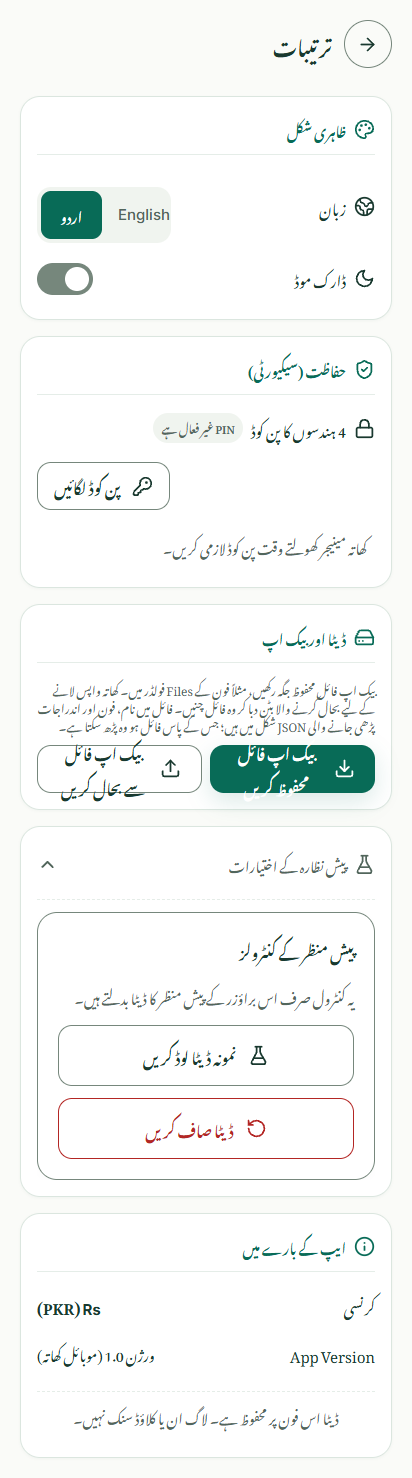
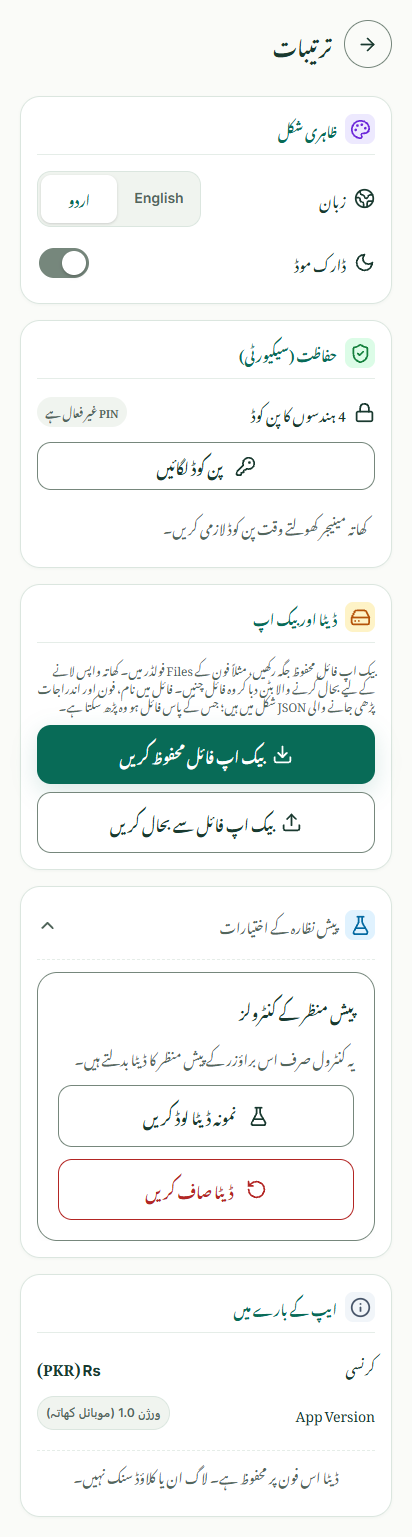
feat(ui): elevate Settings, segmented controls, toggle switch, and card actions

diff --git a/src/styles.css b/src/styles.css
@@ -88,15 +88,22 @@ bdi[dir=ltr] { font-family: var(--type-font-english); }
 .settings-content { display: grid; gap: var(--space-s4); }
 .settings-card { padding: var(--space-s5); background: var(--color-surface); border: var(--layout-border-width) solid var(--color-border); border-radius: var(--radius-card); box-shadow: var(--shadow-card); }
 .settings-card h2 { font-size: var(--type-size-body); }
-.language-switch { display: flex; padding: var(--space-s1); gap: var(--space-s1); margin-top: var(--space-s4); background: var(--color-surface-muted); border-radius: var(--radius-control); }
-.language-switch button { flex: 1; min-width: 0; min-height: var(--layout-touch-target); border-radius: var(--radius-small); background: transparent; color: var(--color-muted); border: 0; font-weight: var(--type-weight-medium); padding: var(--space-s1) var(--space-s3); }
-.language-switch button[aria-pressed=true] { background: var(--color-primary); color: var(--color-on-primary); }
+.language-switch { display: inline-flex; align-items: center; padding: 3px; gap: 4px; margin: 0; background: var(--color-surface-muted); border: 1px solid var(--color-card-border, #dbe6df); border-radius: var(--radius-control); box-sizing: border-box; }
+[data-theme=dark] .language-switch { border-color: #293f34; }
+.language-switch button { min-height: var(--layout-touch-target); min-width: 76px; border-radius: var(--radius-small); background: transparent; color: var(--color-muted); border: 0; font-weight: var(--type-weight-semibold); font-size: var(--type-size-sm); padding: 0 var(--space-s3); cursor: pointer; display: inline-flex; align-items: center; justify-content: center; transition: all var(--motion-fast); }
+.language-switch button[aria-pressed=true] { background: var(--color-surface); color: var(--color-primary); box-shadow: 0 1px 3px rgba(0, 0, 0, 0.1), 0 1px 2px rgba(0, 0, 0, 0.06); }
+[data-theme=dark] .language-switch button[aria-pressed=true] { background: #254c3b; color: #9bd6b6; box-shadow: 0 1px 3px rgba(0, 0, 0, 0.3); }
 .urdu-label { font-family: var(--type-font-urdu); }
 .setting-row { display: flex; align-items: center; justify-content: space-between; gap: var(--space-s4); }
 .currency-row { border-top: var(--layout-border-width) solid var(--color-border); margin-top: var(--space-s5); padding-top: var(--space-s5); }
-.toggle { width: var(--layout-control-height); min-width: var(--layout-control-height); height: var(--space-s8); background: var(--color-border); border-radius: var(--radius-pill); border: 0; padding: var(--space-s1); display: flex; align-items: center; justify-content: start; }
-.toggle span { width: var(--space-s6); height: var(--space-s6); border-radius: var(--radius-pill); background: var(--color-surface); }
-.toggle[aria-checked=true] { background: var(--color-primary); justify-content: end; }
+.toggle { position: relative; width: 54px; min-width: 54px; height: var(--layout-touch-target); min-height: var(--layout-touch-target); background: transparent; border: 0; padding: 0; cursor: pointer; display: inline-flex; align-items: center; justify-content: center; appearance: none; -webkit-appearance: none; box-sizing: border-box; }
+.toggle::before { content: ''; position: absolute; top: 50%; left: 2px; right: 2px; height: 30px; transform: translateY(-50%); border-radius: var(--radius-pill); background: var(--color-border); transition: background-color var(--motion-normal) ease; z-index: 1; }
+.toggle[aria-checked=true]::before { background: var(--color-primary); }
+.toggle span { position: absolute; top: 50%; left: 5px; width: 24px; height: 24px; border-radius: var(--radius-pill); background: var(--color-surface); transform: translateY(-50%); transition: transform var(--motion-normal) cubic-bezier(0.16, 1, 0.3, 1), background-color var(--motion-fast); box-shadow: 0 2px 4px rgba(0, 0, 0, 0.22), 0 1px 2px rgba(0, 0, 0, 0.1); z-index: 2; }
+.toggle[aria-checked=true] span { transform: translateY(-50%) translateX(20px); }
+[dir=rtl] .toggle span { left: auto; right: 5px; }
+[dir=rtl] .toggle[aria-checked=true] span { transform: translateY(-50%) translateX(-20px); }
+[data-theme=dark] .toggle span { background: #ffffff; }
 .muted-copy { color: var(--color-muted); font-size: var(--type-size-sm); padding: var(--space-s2); }
 .foundation-state { margin-block: auto; gap: var(--space-s5); padding-block: var(--space-s12); }
 .foundation-state h2 { font-size: var(--type-size-heading); }.foundation-state p { color: var(--color-muted); }
@@ -185,10 +192,7 @@ h1:lang(ur), h2:lang(ur), .preview-eyebrow:lang(ur), .stage-badge:lang(ur) { let
 .form-field input, .form-field textarea, .search-field input { font-size: var(--type-size-input); }
 .form-field input[dir=ltr] { font-family: var(--type-font-english); line-height: var(--type-line-body); text-align: start; }
 .form-field input, .form-field textarea { scroll-margin-block: var(--space-s6); }
-.toggle { position: relative; isolation: isolate; height: var(--layout-touch-target); background: transparent; }
-.toggle::before { content: ''; position: absolute; inset-inline: 0; top: 50%; height: var(--space-s8); transform: translateY(-50%); border-radius: var(--radius-pill); background: var(--color-border); z-index: -1; }
-.toggle[aria-checked=true] { background: transparent; }
-.toggle[aria-checked=true]::before { background: var(--color-primary); }
+
 .customer-card { position: relative; background: var(--color-surface); border: 1px solid var(--color-card-border, #dbe6df); box-shadow: 0 1px 3px rgba(21, 52, 38, 0.04); border-radius: var(--radius-card); display: flex; align-items: center; justify-content: space-between; padding: var(--space-s3) var(--space-s3); width: 100%; max-width: 100%; min-width: 0; box-sizing: border-box; overflow: hidden; transition: border-color var(--motion-fast), box-shadow var(--motion-fast); content-visibility: auto; contain-intrinsic-block-size: auto var(--layout-customer-row-estimate); }
 [data-theme=dark] .customer-card { border-color: #293f34; box-shadow: none; }
 @media (hover: hover) and (pointer: fine) {
@@ -220,6 +224,7 @@ h1:lang(ur), h2:lang(ur), .preview-eyebrow:lang(ur), .stage-badge:lang(ur) { let
 .customer-name { font-size: var(--type-size-body); font-weight: var(--type-weight-semibold); color: var(--color-text); white-space: nowrap; overflow: hidden; text-overflow: ellipsis; min-width: 0; max-width: 100%; display: block; }
 .customer-meta-row { display: flex; flex-wrap: wrap; align-items: center; row-gap: 2px; column-gap: 4px; font-size: var(--type-size-xs); color: var(--color-muted); min-width: 0; }
 .customer-phone { font-family: var(--type-font-english); white-space: nowrap; }
+.customer-meta-activity-group { display: inline-flex; align-items: center; gap: 4px; white-space: nowrap; }
 .customer-meta-bullet { opacity: 0.5; }
 .customer-activity { display: inline-flex; align-items: center; gap: 3px; white-space: nowrap; min-width: 0; }
 .customer-activity .meta-icon { width: 11px; height: 11px; opacity: 0.7; flex-shrink: 0; }
@@ -234,9 +239,9 @@ h1:lang(ur), h2:lang(ur), .preview-eyebrow:lang(ur), .stage-badge:lang(ur) { let
 }
 .customer-quick-actions { display: flex; align-items: center; gap: 4px; margin-inline-start: var(--space-s2); border-inline-start: 1px solid var(--color-card-border, #dbe6df); padding-inline-start: var(--space-s2); flex-shrink: 0; }
 [data-theme=dark] .customer-quick-actions { border-color: #293f34; }
-.quick-action-btn { width: 38px; height: 38px; min-width: 38px; min-height: 38px; padding: 0; box-sizing: border-box; position: relative; display: grid; place-items: center; border-radius: var(--radius-pill); color: var(--color-muted); background: var(--color-surface-muted); border: 0; text-decoration: none; transition: background var(--motion-fast), color var(--motion-fast), transform var(--motion-fast); }
+.quick-action-btn { width: 38px; height: 38px; min-width: 38px; min-height: 38px; padding: 0; box-sizing: border-box; position: relative; display: grid; place-items: center; border-radius: var(--radius-pill); color: #0284c7; background: #f0f9ff; border: 1px solid #e0f2fe; text-decoration: none; transition: background var(--motion-fast), color var(--motion-fast), transform var(--motion-fast); }
 .quick-action-btn::before { content: ''; position: absolute; inset: -3px; border-radius: var(--radius-pill); }
-.quick-action-btn:hover { background: var(--color-primary-soft); color: var(--color-primary); }
+.quick-action-btn:hover { background: #e0f2fe; color: #0369a1; }
 .quick-action-btn:active { transform: scale(0.92); }
 .quick-action-btn svg { width: 16px; height: 16px; }
 @media (max-width: 380px) {
@@ -248,10 +253,12 @@ h1:lang(ur), h2:lang(ur), .preview-eyebrow:lang(ur), .stage-badge:lang(ur) { let
   .quick-action-btn::before { inset: -6px; } /* Ensures 44px tap target (32 + 6 + 6 = 44px) */
   .customer-balance-amount { font-size: var(--type-size-body); }
 }
-.quick-action-wa { color: #15803d; }
-.quick-action-wa:hover { background: #dcfce7; color: #166534; }
-[data-theme=dark] .quick-action-wa { color: #86efac; }
-[data-theme=dark] .quick-action-wa:hover { background: #14532d; color: #bbf7d0; }
+.quick-action-wa { color: #16a34a; background: #f0fdf4; border-color: #dcfce7; }
+.quick-action-wa:hover { background: #dcfce7; color: #15803d; }
+[data-theme=dark] .quick-action-btn { background: #102a3a; color: #38bdf8; border-color: #1e405a; }
+[data-theme=dark] .quick-action-btn:hover { background: #173b52; color: #7dd3fc; }
+[data-theme=dark] .quick-action-wa { background: #113523; color: #4ade80; border-color: #1a5236; }
+[data-theme=dark] .quick-action-wa:hover { background: #1a5236; color: #86efac; }
 .customer-card .balance { min-width: 0; max-width: 100%; margin-inline-start: auto; text-align: end; }
 .entry-title { min-width: 0; overflow-wrap: anywhere; }
 .entry-amount, .balance-amount { max-width: 100%; }
@@ -319,10 +326,10 @@ bdi[dir=ltr], .reminder-message, .entry-amount { line-height: var(--type-line-bo
 /* Collapsible Reminder Section */
 .reminder-section { border-top: 1px solid var(--color-card-border, #dbe6df); padding-top: var(--space-s3); display: flex; flex-direction: column; gap: var(--space-s2); }
 [data-theme=dark] .reminder-section { border-color: #293f34; }
-.reminder-compact-row { display: flex; align-items: center; justify-content: space-between; gap: var(--space-s3); }
-.reminder-header-group { display: flex; flex-direction: column; gap: 2px; }
-.reminder-label { font-size: var(--type-size-xs); font-weight: var(--type-weight-semibold); text-transform: uppercase; letter-spacing: var(--type-tracking-label); color: var(--color-muted); }
-.reminder-view-toggle { display: inline-flex; align-items: center; gap: 4px; background: transparent; border: 0; padding: 0; color: var(--color-primary); font-size: var(--type-size-xs); cursor: pointer; text-decoration: underline; font-weight: var(--type-weight-medium); }
+.reminder-compact-row { display: flex; align-items: center; justify-content: space-between; gap: var(--space-s2); flex-wrap: wrap; }
+.reminder-header-group { display: flex; flex-direction: column; gap: 2px; min-width: 0; }
+.reminder-label { font-size: 11px; font-weight: var(--type-weight-semibold); text-transform: uppercase; letter-spacing: 0.04em; color: var(--color-muted); }
+.reminder-view-toggle { display: inline-flex; align-items: center; gap: 4px; background: transparent; border: 0; padding: 0; color: var(--color-primary); font-size: var(--type-size-xs); cursor: pointer; text-decoration: underline; font-weight: var(--type-weight-medium); white-space: nowrap; }
 .share-actions-compact { display: flex; align-items: center; gap: var(--space-s2); }
 .reminder-action-btn { display: inline-flex; align-items: center; justify-content: center; gap: 6px; min-height: 44px; height: 44px; padding: 0 var(--space-s3); border-radius: var(--radius-pill); font-size: var(--type-size-xs); font-weight: var(--type-weight-semibold); text-decoration: none; border: 0; cursor: pointer; transition: transform var(--motion-fast), background var(--motion-fast); }
 .reminder-action-btn:active { transform: scale(0.94); }
@@ -480,13 +487,28 @@ bdi[dir=ltr], .reminder-message, .entry-amount { line-height: var(--type-line-bo
 .settings-section-header { display: flex; align-items: center; gap: var(--space-s2); color: var(--color-primary); font-size: var(--type-size-body); font-weight: var(--type-weight-bold); border-bottom: 1px solid var(--color-card-border, #e5ede8); padding-bottom: var(--space-s2); margin-bottom: var(--space-s1); }
 [data-theme=dark] .settings-section-header { border-bottom-color: #293f34; }
 .settings-section-header h2 { font-size: var(--type-size-label); margin: 0; font-weight: var(--type-weight-semibold); }
+.settings-header-icon { display: inline-grid; place-items: center; width: 30px; height: 30px; border-radius: 8px; flex-shrink: 0; }
+.badge-appearance { background: #ede9fe; color: #6d28d9; }
+[data-theme=dark] .badge-appearance { background: #3b1d75; color: #c4b5fd; }
+.badge-security { background: #dcfce7; color: #15803d; }
+[data-theme=dark] .badge-security { background: #14532d; color: #86efac; }
+.badge-data { background: #fef3c7; color: #b45309; }
+[data-theme=dark] .badge-data { background: #45290b; color: #fde68a; }
+.badge-dev { background: #e0f2fe; color: #0369a1; }
+[data-theme=dark] .badge-dev { background: #123e59; color: #7dd3fc; }
+.badge-about { background: #f1f5f9; color: #475569; }
+[data-theme=dark] .badge-about { background: #1e293b; color: #94a3b8; }
+.app-version-badge { font-size: var(--type-size-xs); font-weight: var(--type-weight-semibold); font-family: var(--type-font-english); background: var(--color-surface-muted); border: 1px solid var(--color-card-border, #dbe6df); padding: 2px 8px; border-radius: var(--radius-pill); color: var(--color-muted); }
+[data-theme=dark] .app-version-badge { border-color: #293f34; }
 .status-badge { display: inline-flex; align-items: center; padding: 2px 8px; border-radius: var(--radius-pill); font-size: 11px; font-weight: var(--type-weight-semibold); }
 .status-active { background: #dcfce7; color: #166534; }
 [data-theme=dark] .status-active { background: #14532d; color: #bbf7d0; }
 .status-muted { background: var(--color-surface-muted); color: var(--color-muted); }
-.setting-info-block { display: flex; align-items: center; gap: var(--space-s2); }
-.setting-action-buttons { display: flex; align-items: center; gap: var(--space-s2); margin-inline-start: auto; }
-.pin-action-btn, .pin-remove-btn { width: auto; min-height: 48px; height: 48px; padding: 0 16px; }
+.setting-row.flex-wrap { display: flex; flex-direction: column; align-items: stretch; gap: var(--space-s3); }
+.setting-info-block { display: flex; align-items: center; justify-content: space-between; width: 100%; }
+.setting-action-buttons { display: flex; align-items: center; gap: var(--space-s2); width: 100%; }
+.pin-action-btn { flex: 1; min-width: 0; justify-content: center; min-height: 48px; height: 48px; }
+.pin-remove-btn { min-height: 48px; height: 48px; }
 .developer-section { margin-top: 0; }
 .developer-toggle-btn { width: 100%; display: flex; align-items: center; justify-content: space-between; border: 0; background: transparent; color: var(--color-muted); font-size: var(--type-size-sm); font-weight: var(--type-weight-medium); min-height: 44px; padding: 0; cursor: pointer; }
 .developer-body { max-height: 0; opacity: 0; overflow: hidden; transition: max-height var(--motion-normal), opacity var(--motion-normal); }
@@ -494,8 +516,8 @@ bdi[dir=ltr], .reminder-message, .entry-amount { line-height: var(--type-line-bo
 [data-theme=dark] .developer-body.expanded { border-top-color: #293f34; }
 .backup-card { display: flex; flex-direction: column; gap: var(--space-s3); }
 .backup-description-text { font-size: var(--type-size-xs); color: var(--color-muted); line-height: 1.5; margin: 0; }
-.backup-buttons-row { display: grid; grid-template-columns: 1fr 1fr; gap: var(--space-s2); }
-.backup-primary-btn, .backup-secondary-btn { min-height: 48px; height: 48px; }
+.backup-buttons-row { display: flex; flex-direction: column; gap: var(--space-s2); }
+.backup-primary-btn, .backup-secondary-btn { width: 100%; min-height: 48px; height: auto; padding: var(--space-s3) var(--space-s4); display: flex; align-items: center; justify-content: center; gap: var(--space-s2); font-weight: var(--type-weight-semibold); font-size: var(--type-size-body); }
 .inline-success { background: #dcfce7; color: #166534; }
 [data-theme=dark] .inline-success { background: #14532d; color: #bbf7d0; }
 .about-card .offline-notice { margin-top: var(--space-s2); padding-top: var(--space-s2); border-top: 1px dashed var(--color-card-border, #e5ede8); }

diff --git a/src/screens/Settings.tsx b/src/screens/Settings.tsx
@@ -59,7 +59,9 @@ export function Settings() {
         {/* Section 1: Appearance */}
         <section className="settings-group-card">
           <div className="settings-section-header">
-            <Palette size={18} aria-hidden="true" />
+            <span className="settings-header-icon badge-appearance" aria-hidden="true">
+              <Palette size={16} />
+            </span>
             <h2>{t('appearance')}</h2>
           </div>
 
@@ -116,7 +118,9 @@ export function Settings() {
         {/* Section 2: Security */}
         <section className="settings-group-card">
           <div className="settings-section-header">
-            <ShieldCheck size={18} aria-hidden="true" />
+            <span className="settings-header-icon badge-security" aria-hidden="true">
+              <ShieldCheck size={16} />
+            </span>
             <h2>{t('security')}</h2>
           </div>
 
@@ -164,7 +168,9 @@ export function Settings() {
         {/* Section 3: Data & Backup */}
         <section className="settings-group-card">
           <div className="settings-section-header">
-            <HardDrive size={18} aria-hidden="true" />
+            <span className="settings-header-icon badge-data" aria-hidden="true">
+              <HardDrive size={16} />
+            </span>
             <h2>{t('data')}</h2>
           </div>
 
@@ -180,7 +186,9 @@ export function Settings() {
             aria-expanded={devOpen}
           >
             <div className="flex items-center gap-2">
-              <FlaskConical size={16} aria-hidden="true" />
+              <span className="settings-header-icon badge-dev" aria-hidden="true">
+                <FlaskConical size={16} />
+              </span>
               <span>{t('developerOptions')}</span>
             </div>
             {devOpen ? (
@@ -198,20 +206,22 @@ export function Settings() {
         {/* Section 5: About */}
         <section className="settings-group-card about-card">
           <div className="settings-section-header">
-            <Info size={18} aria-hidden="true" />
+            <span className="settings-header-icon badge-about" aria-hidden="true">
+              <Info size={16} />
+            </span>
             <h2>{t('about')}</h2>
           </div>
 
           <div className="setting-row">
-            <span>{t('currency')}</span>
+            <span className="text-muted text-sm">{t('currency')}</span>
             <strong>
               <bdi dir="ltr">{t('currencyLabel')}</bdi> (PKR)
             </strong>
           </div>
 
           <div className="setting-row">
-            <span>App Version</span>
-            <span className="text-muted text-sm">{t('appVersion')}</span>
+            <span className="text-muted text-sm">App Version</span>
+            <span className="app-version-badge">{t('appVersion')}</span>
           </div>
 
           <p className="muted-copy text-center offline-notice">{t('offline')}</p>

diff --git a/src/components/CustomerCard.tsx b/src/components/CustomerCard.tsx
@@ -86,10 +86,12 @@ export const CustomerCard = memo(function CustomerCard({
             <span className="customer-phone" dir="ltr">
               <bdi>{customer.phone}</bdi>
             </span>
-            <span className="customer-meta-bullet" aria-hidden="true">•</span>
-            <span className="customer-activity" title={t('lastActivity')}>
-              <Clock aria-hidden="true" className="meta-icon" />
-              <span>{relativeActivity}</span>
+            <span className="customer-meta-activity-group">
+              <span className="customer-meta-bullet" aria-hidden="true">•</span>
+              <span className="customer-activity" title={t('lastActivity')}>
+                <Clock aria-hidden="true" className="meta-icon" />
+                <span>{relativeActivity}</span>
+              </span>
             </span>
           </div>
         </div>
